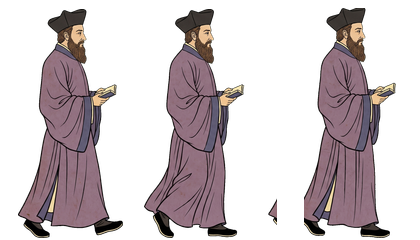
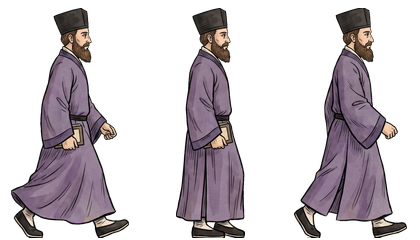
Clean up Ming walk sheet alpha

diff --git a/tools/lib/image.ts b/tools/lib/image.ts
@@ -5,6 +5,7 @@ export type PostStep =
   | { crop: { y: number; h: number } }
   | { resize: { width: number; height: number; fit?: 'cover' | 'contain' | 'fill'; kernel?: 'nearest' | 'lanczos3' } }
   | { chromaKey: { hueMin?: number; hueMax?: number; satMin?: number; valMin?: number } }
+  | { dropIslands: { minArea: number } }
   | { removeGroundLine: true }
   | { trim: true }
   | { quantize: { colors: number; dither?: number } }
@@ -57,6 +58,48 @@ export function chromaKey(r: Raw, o: { hueMin?: number; hueMax?: number; satMin?
     }
   }
   return { ...r, data: out };
+}
+
+function dropIslands(r: Raw, minArea: number): Raw {
+  const pixelCount = r.width * r.height;
+  const seen = new Uint8Array(pixelCount);
+  const queue = new Int32Array(pixelCount);
+  const data = Buffer.from(r.data);
+  for (let start = 0; start < pixelCount; start++) {
+    if (seen[start] || data[start * 4 + 3] === 0) continue;
+    let head = 0;
+    let tail = 0;
+    queue[tail++] = start;
+    seen[start] = 1;
+    while (head < tail) {
+      const pixel = queue[head++];
+      const x = pixel % r.width;
+      const y = Math.floor(pixel / r.width);
+      for (let dy = -1; dy <= 1; dy++) {
+        const ny = y + dy;
+        if (ny < 0 || ny >= r.height) continue;
+        for (let dx = -1; dx <= 1; dx++) {
+          if (dx === 0 && dy === 0) continue;
+          const nx = x + dx;
+          if (nx < 0 || nx >= r.width) continue;
+          const neighbor = ny * r.width + nx;
+          if (seen[neighbor] || data[neighbor * 4 + 3] === 0) continue;
+          seen[neighbor] = 1;
+          queue[tail++] = neighbor;
+        }
+      }
+    }
+    if (tail < minArea) {
+      for (let i = 0; i < tail; i++) {
+        const offset = queue[i] * 4;
+        data[offset] = 0;
+        data[offset + 1] = 0;
+        data[offset + 2] = 0;
+        data[offset + 3] = 0;
+      }
+    }
+  }
+  return { ...r, data };
 }
 
 function alphaBox(r: Raw, x0: number, y0: number, w: number, h: number) {
@@ -126,6 +169,8 @@ export async function runPost(input: Buffer, steps: PostStep[]): Promise<Buffer>
       r = await toRaw(await fromRaw(r).resize(s.width, s.height, { fit: s.fit ?? 'cover', kernel: s.kernel ?? 'lanczos3', background: { r: 0, g: 0, b: 0, alpha: 0 } }).png().toBuffer());
     } else if ('chromaKey' in step) {
       r = chromaKey(r, step.chromaKey);
+    } else if ('dropIslands' in step) {
+      r = dropIslands(r, step.dropIslands.minArea);
     } else if ('removeGroundLine' in step) {
       const out = Buffer.from(r.data);
       for (let y = Math.floor(r.height * 0.88); y < r.height; y++) {

diff --git a/tests/image.test.ts b/tests/image.test.ts
@@ -39,6 +39,44 @@ describe('ground-line removal', () => {
   });
 });
 
+describe('alpha island removal', () => {
+  it('removes a 3-pixel speck and leaves the main blob unchanged', async () => {
+    const width = 12;
+    const height = 8;
+    const pixels = Buffer.alloc(width * height * 4);
+    for (let y = 1; y <= 3; y++) {
+      for (let x = 1; x <= 3; x++) {
+        const i = (y * width + x) * 4;
+        pixels[i] = 20;
+        pixels[i + 1] = 40;
+        pixels[i + 2] = 60;
+        pixels[i + 3] = 255;
+      }
+    }
+    for (const [x, y] of [[7, 1], [8, 2], [9, 3]]) {
+      const i = (y * width + x) * 4;
+      pixels[i] = 80;
+      pixels[i + 1] = 100;
+      pixels[i + 2] = 120;
+      pixels[i + 3] = 255;
+    }
+
+    const input = await sharp(pixels, { raw: { width, height, channels: 4 } }).png().toBuffer();
+    const output = await runPost(input, [{ dropIslands: { minArea: 4 } }]);
+    const { data } = await sharp(output).ensureAlpha().raw().toBuffer({ resolveWithObject: true });
+
+    for (let y = 1; y <= 3; y++) {
+      for (let x = 1; x <= 3; x++) {
+        const i = (y * width + x) * 4;
+        expect([...data.subarray(i, i + 4)]).toEqual([20, 40, 60, 255]);
+      }
+    }
+    for (const [x, y] of [[7, 1], [8, 2], [9, 3]]) {
+      expect(data[(y * width + x) * 4 + 3]).toBe(0);
+    }
+  });
+});
+
 describe('Ming pose overlays', () => {
   const scene = JSON.parse(readFileSync(fileURLToPath(new URL('../assets/scenes/ming_scriptorium.yaml', import.meta.url)), 'utf8')) as {
     pose_min_changed_pixels: number;

diff --git a/tools/maps/build-ming.py b/tools/maps/build-ming.py
@@ -46,7 +46,7 @@ pose_actor = {key: data["actor"] for key, data in scene["poses"].items()}
 linu_silhouette = [tuple(p) for p in scene_spec["poses"]["linu"]["foreground_silhouette_art"]]
 maps = {}
 maps["ming_canal_street"] = tmj(4492, 540, "水鄉 · 文林閣前", "bg_canal_long",
-        [BOX(20, 408, 2405, 492), BOX(2915, 408, 4472, 492),
+        [BOX(25, 408, 2405, 492), BOX(2915, 408, 4467, 492),
          [(2405, 408), (2600, 352), (2720, 352), (2915, 408),
           (2915, 492), (2850, 422), (2720, 385), (2600, 385),
           (2470, 421), (2405, 492)]],
